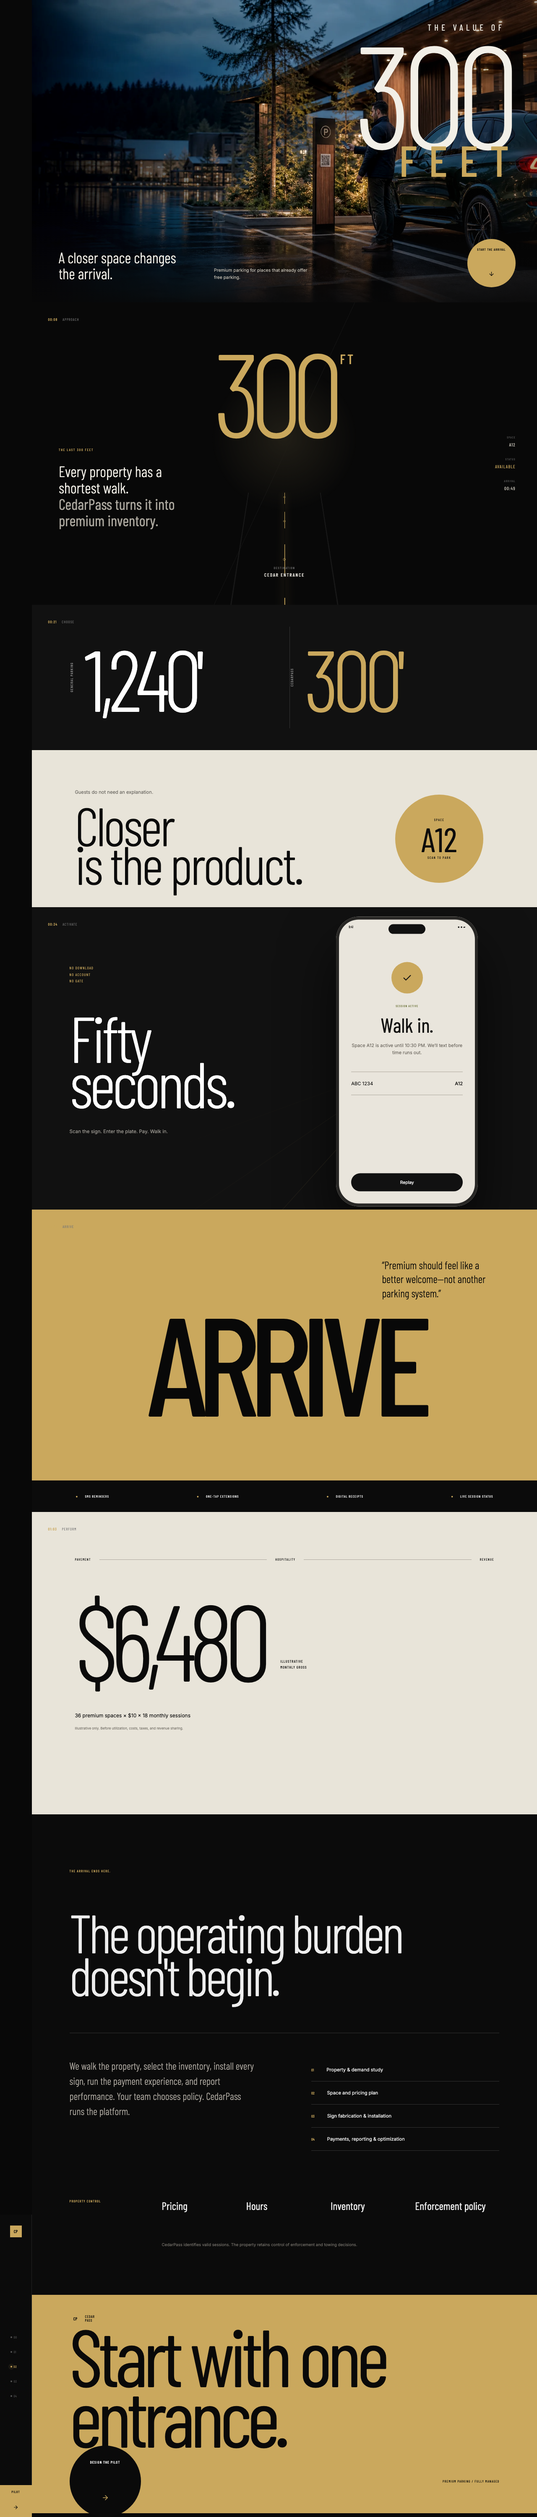
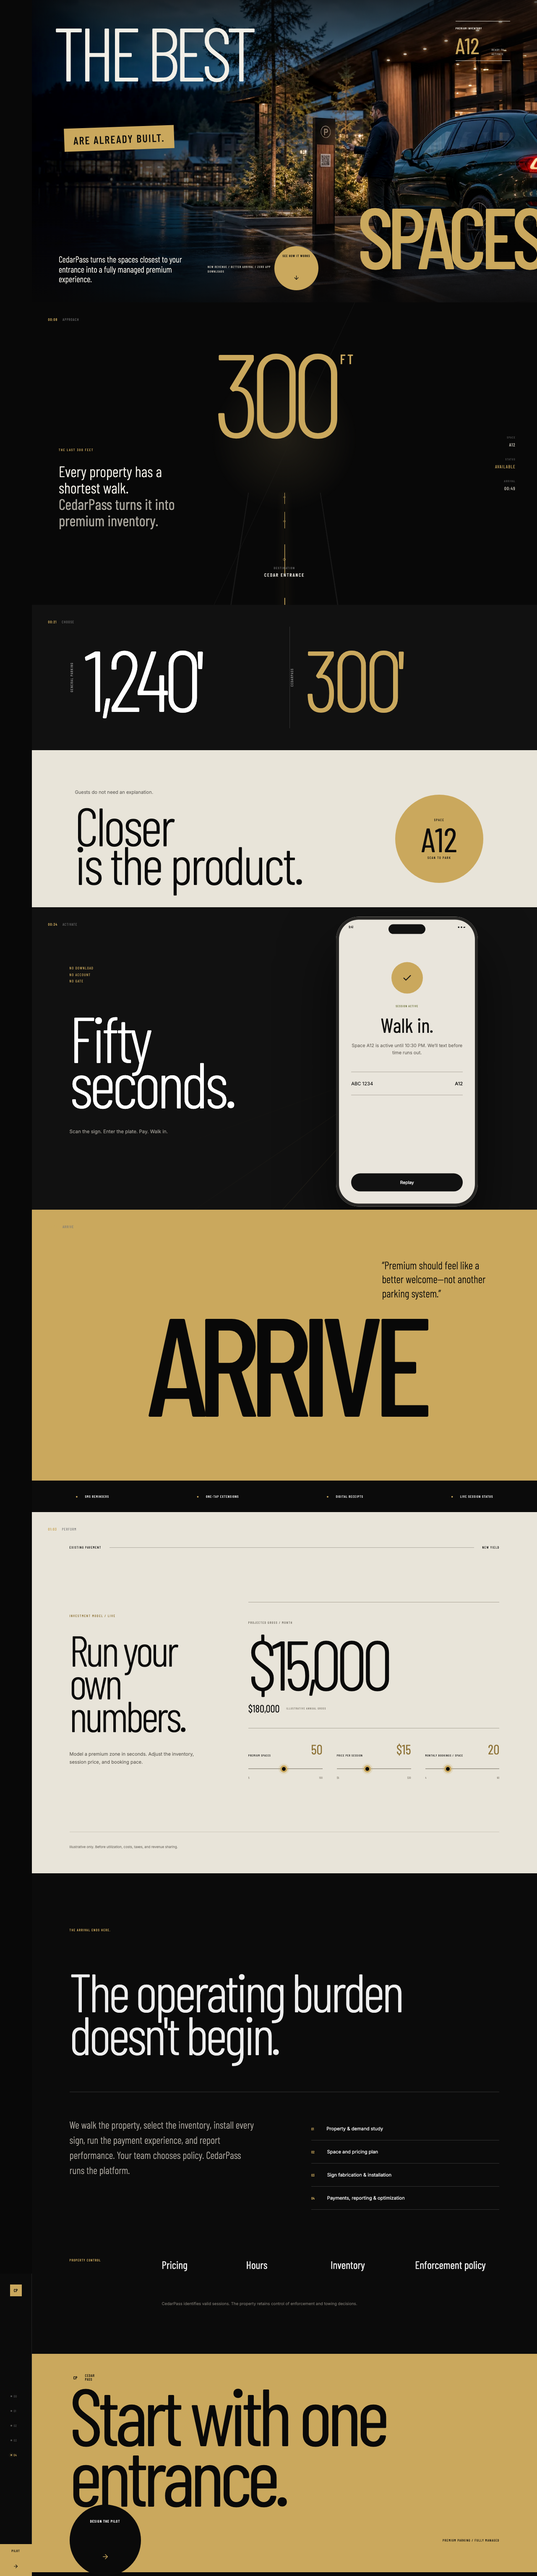
Fix CedarPass mobile hero composition

diff --git a/src/styles.css b/src/styles.css
@@ -15,6 +15,19 @@
 /* Opening campaign: the property opportunity is the headline. */
 .opening:after{background:linear-gradient(180deg,#080808b8 0%,transparent 24%,transparent 60%,#080808e8 100%)}.opening-title{position:absolute;z-index:3;inset:0;display:block;font-family:Barlow Condensed,sans-serif;text-transform:uppercase;line-height:.72;pointer-events:none}.opening-title strong{position:absolute;top:8vh;left:4vw;font-size:clamp(7rem,14vw,16rem);font-weight:300;letter-spacing:-.065em;color:#f2efe7}.opening-title em{position:absolute;right:2vw;bottom:12vh;font-size:clamp(8rem,18vw,21rem);font-style:normal;font-weight:500;letter-spacing:-.07em;color:var(--gold)}.opening-title b{position:absolute;top:42%;left:6vw;padding:13px 22px 11px;background:var(--gold);color:#090909;font:500 clamp(1.1rem,2vw,2.3rem) Barlow Condensed;letter-spacing:.09em;transform:rotate(-2deg)}.opening-caption{left:5vw;bottom:6vh;align-items:center;gap:35px;max-width:560px}.opening-caption p{font:300 clamp(1.15rem,1.6vw,1.8rem)/1.15 Barlow Condensed;max-width:320px;margin:0}.opening-caption span{font:500 .45rem/1.6 Barlow Condensed;letter-spacing:.14em;color:#c4bfb4;max-width:180px}.opening-space{position:absolute;z-index:4;right:5vw;top:7vh;width:130px;border-top:1px solid #d2cfc6;border-bottom:1px solid #d2cfc6;padding:13px 0 11px;display:grid;grid-template-columns:1fr auto;align-items:end;color:#f2efe7}.opening-space span,.opening-space small{font:500 .4rem Barlow Condensed;letter-spacing:.16em}.opening-space span{grid-column:1/-1}.opening-space b{font:400 3.3rem/.9 Barlow Condensed;color:var(--gold);margin-top:14px}.opening-space small{max-width:44px;line-height:1.45;color:#bbb6ad}.start-film{right:auto;left:48%;bottom:4vh;width:105px;height:105px}
 @media(max-width:900px){.opening-title strong{top:10vh;font-size:18vw}.opening-title em{bottom:18vh;font-size:22vw}.opening-title b{top:36%;left:5vw}.opening-space{top:9vh}.opening-caption{bottom:9vh}.start-film{display:grid;left:auto;right:5vw;bottom:6vh}}
-@media(max-width:620px){.opening>img{object-position:62% center}.opening:after{background:linear-gradient(180deg,#080808b8 0%,transparent 28%,transparent 50%,#080808f2 84%)}.opening-title strong{top:8vh;left:5vw;font-size:23vw}.opening-title em{right:4vw;bottom:28vh;font-size:27vw}.opening-title b{top:27vh;left:5vw;font-size:1rem;padding:10px 15px}.opening-space{right:5vw;top:19vh;width:105px}.opening-space b{font-size:2.8rem}.opening-caption{left:6vw;right:6vw;bottom:11vh;display:block;max-width:70%}.opening-caption p{font-size:1.35rem}.opening-caption span{margin-top:14px;font-size:.38rem}.start-film{width:82px;height:82px;right:5vw;bottom:10vh;font-size:.4rem}}
+@media(max-width:620px){
+  .opening{height:100svh;min-height:720px;background:#080808}
+  .opening>img{height:66%;object-position:59% center;filter:saturate(.68) contrast(1.08)}
+  .opening:after{background:linear-gradient(180deg,#080808c9 0%,transparent 22%,transparent 47%,#080808 66%,#080808 100%)}
+  .opening-title{inset:0;display:flex;flex-direction:column;align-items:flex-start;padding:5.5vh 6vw 0;line-height:.78}
+  .opening-title strong,.opening-title em,.opening-title b{position:static;transform:none;margin:0}
+  .opening-title strong{font-size:20.5vw;letter-spacing:-.055em;white-space:nowrap}
+  .opening-title em{font-size:25vw;letter-spacing:.01em;color:var(--gold)}
+  .opening-title b{margin-top:16px;padding:9px 13px 8px;font-size:.82rem;letter-spacing:.11em}
+  .opening-space,.start-film{display:none}
+  .opening-caption{left:6vw;right:6vw;bottom:12vh;display:grid;grid-template-columns:1fr;gap:17px;max-width:none;padding-top:20px;border-top:1px solid #34312b}
+  .opening-caption p{max-width:330px;font-size:1.65rem;line-height:1.08}
+  .opening-caption span{margin:0;max-width:none;font-size:.4rem;letter-spacing:.13em;color:#8f8b82}
+}
 @media(min-width:901px){.opening-title em{right:3vw;font-size:clamp(8rem,16vw,18rem)}}
 @media(prefers-reduced-motion:reduce){*{scroll-behavior:auto!important;transition:none!important}}
